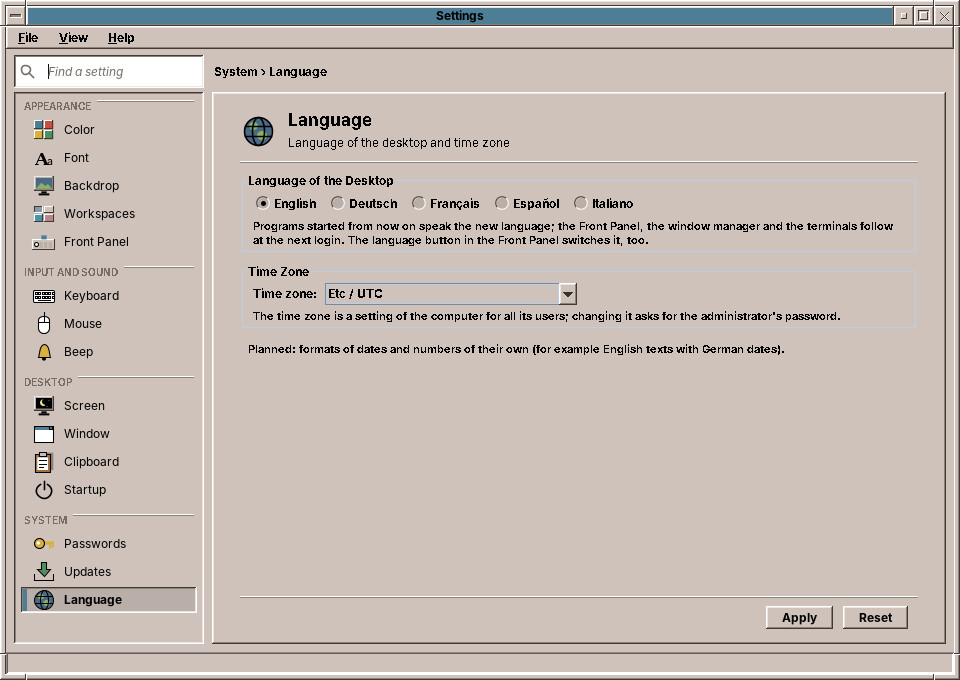
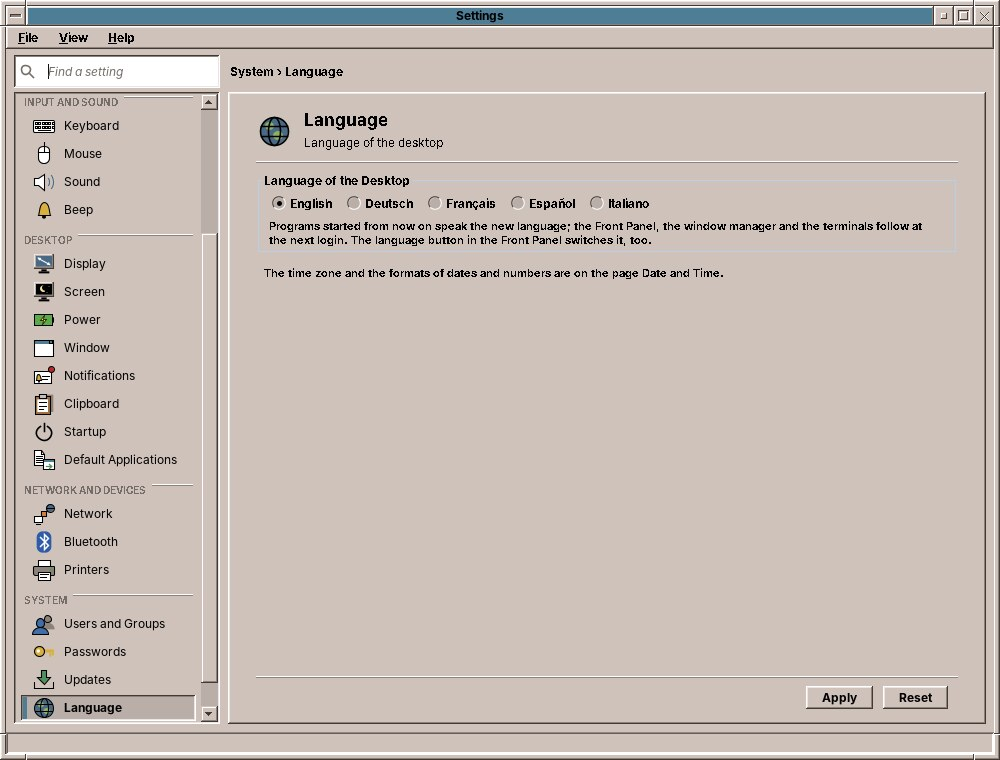
feat: Default Applications and Date and Time in Settings
User's Handbook: ch 38 gets Date and Time (network time, the clock by hand,
time zone, formats apart from the language) and loses the time zone on the
Language page; ch 40 gets "Which program opens what" (Default Applications);
ch 25, 30, 56 and appendix E follow, ROADMAP items 5 and 6 are crossed out.

Image: /etc/xdg/mimeapps.list names amadeOS's program for mail links, folders,
text, documents, music, videos, calendar files and vCards; locale-gen builds
the locales of the regions Settings offers for formats.

Claude-Session: https://claude.ai/code/session_017Pd6Nbiw9wGbTfiJeZp9VM

Changed region(s): [[0.0, 0.0, 1.0, 1.0], [0.9688, 0.1235, 1.0, 0.1544]]

diff --git a/docs/handbook/chapters/38-passwords-updates-language.md b/docs/handbook/chapters/38-passwords-updates-language.md
@@ -1,6 +1,6 @@
 # 38. Network, Devices and System
 
-Two groups of Settings reach below the desktop. *Network and Devices* connects the computer: the wired network and the WLAN with the proxy through which programs reach the internet, the Bluetooth devices and the printers. *System* has the accounts of the computer (chapter 53), the keyring with your passwords, the updates of the system, and the language and time zone.
+Two groups of Settings reach below the desktop. *Network and Devices* connects the computer: the wired network and the WLAN with the proxy through which programs reach the internet, the Bluetooth devices and the printers. *System* has the accounts of the computer (chapter 53), the keyring with your passwords, the updates of the system, the language, and the date and time.
 
 ## Network
 
@@ -126,10 +126,29 @@ Below, the page shows when the package lists were last checked and how many upda
 
 **Language of the desktop** is the language of the menus and windows: English, Deutsch, Français, Español or Italiano. It is the same choice as the language button of the Front Panel and the login screen (chapter 25). Programs started after **Apply** speak the new language; the Front Panel, the window manager and the terminals follow at the next login.
 
-**Time zone** sets the time zone of the computer's clock. The time zone holds for all users of the computer, so **Apply** asks for the administrator's password.
+The time zone and the formats of dates and numbers have their own page, *Date and Time*.
 
-!!! planned "Planned: formats of their own"
-    Dates, times and numbers follow the language of the desktop. Choosing their format separately, for example English texts with German dates, is planned.
+## Date and Time
+
+![The Date and Time page](images/38/settings-datetime.jpg)
+
+At the top, the page shows the date and the time as the clock of the computer has them, second by second.
+
+**Set the clock automatically from the internet (network time)** is on from the start: the time service `systemd-timesyncd` asks a time server and keeps the clock right to a fraction of a second. The line below says whether it has reached a server yet. A computer that is never online, or a clock you want wrong on purpose, needs the switch off; then **Date** and **Time** below become editable, and **Apply** sets the clock to what they show.
+
+**Time zone** sets the time zone of the computer's clock, for example *Europe / Berlin*. The changes between summer and winter time follow by themselves. The login screen offers the time zone as well (chapter 20).
+
+The clock and the time zone hold for all users of the computer, so **Apply** asks for the administrator's password (once for a few minutes, however many of the three you change).
+
+**Formats of** chooses how dates, times, numbers and money are written, independently of the language: English menus with German dates, for example, or the Swiss way of writing numbers in a German-speaking desktop. *Same as the language* is the start: the formats of the language of the desktop. Below the list, the page shows what the choice means: the short and the long date, the time, a number, a sum of money, the first day of the week, the measures and the paper size. The formats are your own setting; another user of the computer keeps theirs. Programs started after **Apply** use them; the Front Panel and the terminals follow at the next login.
+
+| Region | Date | Time | Number | Week starts |
+|---|---|---|---|---|
+| English (United States) | 10/31/26 | 11:39 PM | 1,234,567.89 | Sunday |
+| English (United Kingdom) | 31/10/2026 | 23:39 | 1,234,567.89 | Monday |
+| Deutsch (Deutschland) | 31.10.26 | 23:39 | 1.234.567,89 | Monday |
+| Deutsch (Schweiz) | 31.10.26 | 23:39 | 1’234’567.89 | Monday |
+| Français (France) | 31/10/2026 | 23:39 | 1 234 567,89 | Monday |
 
 ??? hood "Under the hood"
-    The *Connections* tab asks NetworkManager with `nmcli` (`device status`, `device wifi list`, `device show`) and changes connections with `nmcli device connect` and `nmcli device wifi connect`, which members of the group `netdev` may do without a password. The Bluetooth page speaks with the Bluetooth service `bluetoothd` (BlueZ) over the system bus, and answers the pairing questions as its agent; the user needs to be in the group `bluetooth`. The Printers page speaks IPP to CUPS like the Print Manager, finds printers with `lpinfo`, adds them with `lpadmin -m everywhere` (members of the group `lpadmin` may) and saves the defaults with `lpadmin -o`. The Proxy tab writes `~/.config/amadeos/proxy.conf`; the password is in the keyring under `service amadeos account proxy`. The amade applications follow the file at once. At login the session turns it into the variables `http_proxy`, `https_proxy` and `no_proxy` (`/usr/libexec/amadeos-proxy-env`), and programs started from the desktop get them as they are at that moment. For apt, `/usr/libexec/amadeos-packages proxy` writes `/etc/apt/apt.conf.d/80amadeos-proxy`, which only root can read. The Passwords page talks to the keyring over the freedesktop.org Secret Service on the session bus; locking and unlocking use GNOME Keyring's own interface for its master password. The Updates page reads the same state as the updates cell and writes the automatic setting through `/usr/libexec/amadeos-packages` and `pkexec`. The language is written to `~/.config/amadeos/locale.conf`; the time zone is set with `timedatectl set-timezone`, which polkit allows to administrators.
+    The *Connections* tab asks NetworkManager with `nmcli` (`device status`, `device wifi list`, `device show`) and changes connections with `nmcli device connect` and `nmcli device wifi connect`, which members of the group `netdev` may do without a password. The Bluetooth page speaks with the Bluetooth service `bluetoothd` (BlueZ) over the system bus, and answers the pairing questions as its agent; the user needs to be in the group `bluetooth`. The Printers page speaks IPP to CUPS like the Print Manager, finds printers with `lpinfo`, adds them with `lpadmin -m everywhere` (members of the group `lpadmin` may) and saves the defaults with `lpadmin -o`. The Proxy tab writes `~/.config/amadeos/proxy.conf`; the password is in the keyring under `service amadeos account proxy`. The amade applications follow the file at once. At login the session turns it into the variables `http_proxy`, `https_proxy` and `no_proxy` (`/usr/libexec/amadeos-proxy-env`), and programs started from the desktop get them as they are at that moment. For apt, `/usr/libexec/amadeos-packages proxy` writes `/etc/apt/apt.conf.d/80amadeos-proxy`, which only root can read. The Passwords page talks to the keyring over the freedesktop.org Secret Service on the session bus; locking and unlocking use GNOME Keyring's own interface for its master password. The Updates page reads the same state as the updates cell and writes the automatic setting through `/usr/libexec/amadeos-packages` and `pkexec`. The language is written to `~/.config/amadeos/locale.conf`. The Date and Time page reads the clock with `timedatectl show` and changes it with `timedatectl set-timezone`, `set-ntp` and `set-time`, which polkit allows to administrators. The formats are written to `~/.config/amadeos/formats.conf`, one line such as `de_CH.UTF-8`. The amade applications make it the Java locale for formats; for other programs the session sets `LC_TIME`, `LC_NUMERIC`, `LC_MONETARY`, `LC_PAPER` and `LC_MEASUREMENT` (`LANG` keeps the language), and programs started from the desktop get them as they are at that moment. The image generates the locales of all regions in the list.

diff --git a/docs/handbook/chapters/30-settings.md b/docs/handbook/chapters/30-settings.md
@@ -1,6 +1,6 @@
 # 30. Settings
 
-**Settings** is where you make the desktop your own: its colours, the size of its text, the picture behind the windows, the names of the workspaces and the Front Panel, how the keyboard, the mouse and the windows behave, the speakers and microphones, the sound of the beep, the resolution of the monitors, the screen saver, sleeping and the battery, the notifications, the clipboard and what starts at login, the network, Bluetooth and the printers, and, for the system, the accounts of the computer, the keyring, the updates, the language and the time zone. It grew out of CDE's Style Manager, and it can still look like it (see *The compact view* below).
+**Settings** is where you make the desktop your own: its colours, the size of its text, the picture behind the windows, the names of the workspaces and the Front Panel, how the keyboard, the mouse and the windows behave, the speakers and microphones, the sound of the beep, the resolution of the monitors, the screen saver, sleeping and the battery, the notifications, the clipboard, what starts at login and which program opens which file, the network, Bluetooth and the printers, and, for the system, the accounts of the computer, the keyring, the updates, the language, and the clock with the time zone and the formats of dates and numbers. It grew out of CDE's Style Manager, and it can still look like it (see *The compact view* below).
 
 ## Opening it
 
@@ -32,13 +32,15 @@ On the left, the controls are grouped by what they set. Click one, or move throu
 | | **Notifications** | Where pop-ups appear and for how long, Do not disturb, which programs may show them | 28 |
 | | **Clipboard** | The clipboard history, and copies that outlive their program | 36 |
 | | **Startup** | Programs and desktop services started at login | 35 |
+| | **Default Applications** | The programs that open web links, mail, folders, pictures, PDF files, music, videos and documents | 40 |
 | Network and Devices | **Network** | Wired network, WLAN and the proxy | 38 |
 | | **Bluetooth** | Switching it on, pairing and connecting devices | 38 |
 | | **Printers** | Adding printers, the default printer, paper size and two-sided printing | 38 |
 | System | **Users and Groups** | The accounts of the computer, administrators, permission groups | 53 |
 | | **Passwords** | The login keyring: lock, unlock, change its password | 38 |
 | | **Updates** | Automatic security updates, the updates waiting | 38 |
-| | **Language** | The language of the desktop and the time zone | 38 |
+| | **Language** | The language of the desktop | 38 |
+| | **Date and Time** | The clock, network time, the time zone and the formats of dates and numbers | 38 |
 
 The pages of the *System* group change things for the whole computer or your keyring; some of them ask for the administrator's password on **Apply**. The pages *Sound*, *Bluetooth*, *Printers* and *Users and Groups* have no *Apply*: what you do there happens at once, as on the network's *Connections* tab.
 
@@ -81,4 +83,4 @@ In that window, **OK** saves, applies and closes; **Apply** saves and applies an
     CDE's Style Manager, `dtstyle`, was a row of buttons, each opening a small window. That worked for a handful of controls; amadeOS has more to set, so the sidebar groups them and a search finds them. The compact view keeps the CDE row for those who prefer it.
 
 ??? hood "Under the hood"
-    Settings writes small text files to `~/.config/amadeos/`, one per control: `theme.conf` and `icon_theme.conf` (Color), `font.conf` (Font), `wallpaper.conf` (Backdrop), `input.conf` (Keyboard, Mouse and Beep), `display.conf` (Display), `screen.conf` (Screen), `power.conf` (Power), `window.conf` (Window), `notifications.conf` (Notifications), `clipboard.conf` (Clipboard), `workspaces.conf` (Workspaces), `panel.conf` (Front Panel), `startup.conf` (Startup) and `locale.conf` (Language); the programs started at login are in `~/.config/autostart/`; its own view is kept in `settings.conf`. The desktop and the amadeOS applications watch these files, so a change reaches them at once. Chapter 56 lists all settings files.
+    Settings writes small text files to `~/.config/amadeos/`, one per control: `theme.conf` and `icon_theme.conf` (Color), `font.conf` (Font), `wallpaper.conf` (Backdrop), `input.conf` (Keyboard, Mouse and Beep), `display.conf` (Display), `screen.conf` (Screen), `power.conf` (Power), `window.conf` (Window), `notifications.conf` (Notifications), `clipboard.conf` (Clipboard), `workspaces.conf` (Workspaces), `panel.conf` (Front Panel), `startup.conf` (Startup), `locale.conf` (Language) and `formats.conf` (Date and Time); the default applications are in `~/.config/mimeapps.list`; the programs started at login are in `~/.config/autostart/`; its own view is kept in `settings.conf`. The desktop and the amadeOS applications watch these files, so a change reaches them at once. Chapter 56 lists all settings files.

diff --git a/README.md b/README.md
@@ -87,7 +87,7 @@ settings). This repository holds the live image: its package list and configurat
 | **Front panel** | A CDE-style dock with clock, calendar, workspace switcher and drawers that list installed applications from their `.desktop` files, among them a Games drawer with the amade games (Mines, Solitaire, Paddle, ..., Town). The Help drawer opens the amadeOS User's Handbook in Firefox. |
 | **Logs** | One log per application in `~/.cache/amadeos/logs` (`firefox-esr.log`, `amade-files.log`, ...), written by the panel when it starts a program, next to `session.log` and `wm.log` from `amadeos-session`. *Session Diagnostics & Logs* in the Tools drawer (the program `amadeos-logviewer`) shows one of them at a time, chosen from a list, with the display manager's logs from `/var/log` and the system journal of this boot (the live user is in `systemd-journal`); *Follow* reloads every two seconds. |
 | **Language** | English, Deutsch, Français, Español, Italiano. Chosen in the login greeter (*Language*, preselected with the user's last choice) for the whole session, or with the language button under the lock in the front panel. Both write `~/.config/amadeos/locale.conf`; applications built on amade-commons start in that language, the panel and terminals follow at the next login (`LANG`). An application's own *Settings* can override it. |
-| **Settings** (`settings`, formerly the Style Manager) | The controls of CDE's dtstyle in one window with a sidebar and a search, or as CDE's compact row (View > Compact). Color (palette and icon theme), Font, Backdrop, Workspaces (names), Front Panel (clock, status cells), Keyboard, Mouse, Beep, Screen, Window, Clipboard, Startup (programs in `~/.config/autostart`, optional desktop services), Passwords (login keyring), Updates and Language (with the time zone). |
+| **Settings** (`settings`, formerly the Style Manager) | The controls of CDE's dtstyle in one window with a sidebar and a search, or as CDE's compact row (View > Compact). Color (palette and icon theme), Font, Backdrop, Workspaces (names), Front Panel (clock, status cells), Keyboard, Mouse, Beep, Screen, Window, Clipboard, Startup (programs in `~/.config/autostart`, optional desktop services), Passwords (login keyring), Updates, Language, Date and Time (time zone, network time, the clock by hand, formats of dates and numbers apart from the language in `~/.config/amadeos/formats.conf`) and Default Applications (`~/.config/mimeapps.list`). |
 | **Icons** | The NsCDE icon theme is the default (package `nscde-icon-theme`, built by `scripts/package-nscde-icons.sh`, included in the image automatically). Any other installed Freedesktop icon theme can be chosen in the Settings. |
 | **Backdrops** | The original CDE pattern backdrops (Pebbles, Concave, BrickWall, Toronto, ...) come as the separate package `amadeos-backdrops-cde` (built by `scripts/package-cde-backdrops.sh`, installed to `/usr/share/amadeos/backdrops/cde`) and take their shades from the chosen backdrop color like in dtstyle. Own `.pm`/`.bm` files (XPM/XBM) are found in `~/.dt/backdrops` and `~/.config/amadeos/backdrops`, pictures (PNG/JPEG) as well. |
 | **Input settings** (`input`) | Keyboard repeat and click, mouse handedness, double-click time and acceleration, and the bell; stored in `~/.config/amadeos/input.conf` and applied with `xset`, `xmodmap` and `xrdb` at login (`/etc/amadeos/autostart.d/10-amadeos-input`) and on Apply. |

diff --git a/docs/handbook/chapters/40-applications.md b/docs/handbook/chapters/40-applications.md
@@ -38,10 +38,36 @@ Every amade application has its source code in a repository of its own on GitHub
 
 - Click the icon or open the drawer of its slot in the **Front Panel** (chapter 22).
 - Choose it in the **Application Manager**: click the icon of the **Tools** slot.
-- Double-click a file in the **File Manager**: it opens in the program made for it, a `.txt` in the Text Editor, an `.odt` in WritePad, a photo in the Image Viewer, a `.pdf` in the PDF Viewer, an `.epub` in Books, an `.ics` in the Calendar.
+- Double-click a file in the **File Manager**: it opens in the program made for it, a `.txt` in the Text Editor, an `.odt` in WritePad, a photo in the Image Viewer, a `.pdf` in the PDF Viewer, an `.epub` in Books, an `.ics` in the Calendar. Which program that is, you choose in Settings (below).
 - Type its command in a terminal, such as `amade-pad letter.txt`. Each section below names the command.
 
 While a program starts, the pointer shows the busy cursor until its window appears.
+
+## Which program opens what
+
+![The Default Applications page in Settings](images/40/settings-applications.jpg)
+
+The page **Default Applications** in Settings (group *Desktop*) chooses the program that opens a kind of file or link: web links, mail addresses (`mailto:` links in a web page), folders, text files, documents, pictures, PDF files, e-books and comics, music, videos, calendar files and contacts. The File Manager, the links in the Mailer and in the other programs, and everything started with `xdg-open` follow it.
+
+Each list offers only the installed programs that say they can open that kind of file; a program installed later appears in it by itself. *(amadeOS default)* marks the program amadeOS chose. To read `.docx` files in LibreOffice Writer instead of WritePad, for example, choose *LibreOffice Writer* next to *Documents* and click **Apply**. **Use amadeOS Defaults** selects amadeOS's choice in every list again.
+
+| Kind | amadeOS default | Other programs in the image |
+|---|---|---|
+| Web browser | Firefox ESR | |
+| Mail | Mailer | |
+| Folders | File Manager | |
+| Text files | Text Editor | WritePad |
+| Documents | WritePad | LibreOffice Writer |
+| Pictures | Image Viewer | Image Editor, Imagescan |
+| PDF files | PDF Viewer | |
+| E-books and comics | Books | |
+| Music | Audio | |
+| Videos | Video | |
+| Calendar files | Calendar | |
+| Contacts | Contacts | |
+
+??? hood "Under the hood"
+    The page follows the freedesktop.org *MIME Applications* specification. Your choices go to `~/.config/mimeapps.list`, under `[Default Applications]`, one line per type (`application/pdf=amade-pdfviewer.desktop;`); amadeOS's choices are in `/etc/xdg/mimeapps.list`. The first file that names an installed program wins. Choosing amadeOS's default again removes your line, so that a later change of the default in an update reaches you. Lines that other programs write to the same file, such as Firefox's, stay as they are. The programs a list offers are the desktop entries in `/usr/share/applications` whose `MimeType=` names the kind.
 
 ## The Application Manager
 

diff --git a/ROADMAP.md b/ROADMAP.md
@@ -69,8 +69,8 @@ Gap analysis of 2026-10-31: what a typical desktop has and amadeOS does not yet,
 2. ~~Archives: open and create zip and tar files.~~ Built 2026-10-31 in the File Manager (Extract Here, Extract To…, Compress…; also reads 7z).
 3. ~~Power: Suspend and Hibernate in the EXIT dialog, an action for the closed lid, a Settings page *Power* (screen off after, suspend after, on battery).~~ Built 2026-10-31 (amadeos-system: EXIT dialog, Settings > Power, lid and power button through logind; test on a real laptop open).
 4. ~~Notifications: a daemon for `org.freedesktop.Notifications`, so Firefox, updates, Mailer and Calendar reminders can show pop-ups.~~ Built 2026-10-31 (pop-ups, history, bell, Do not disturb; see the timeline). Calendar, Mailer, Backup, TV and Webcam send through it (calendar #17, mail #15, backup #6, tv #10, webcam #2).
-5. Default applications: a Settings page for the program that opens web links, mail, PDFs, pictures, music and videos (`xdg-mime`).
-6. Date and time: date and number formats (marked *Planned* on the Language page), network time on or off, setting the time by hand.
+5. ~~Default applications: a Settings page for the program that opens web links, mail, PDFs, pictures, music and videos (`xdg-mime`).~~ Built 2026-10-31 (Settings > Default Applications, `~/.config/mimeapps.list`).
+6. ~~Date and time: date and number formats (marked *Planned* on the Language page), network time on or off, setting the time by hand.~~ Built 2026-10-31 (Settings > Date and Time with the time zone, network time, the clock by hand and formats of a region of their own).
 7. Task manager / system monitor: processes, CPU and memory graphs, ending a program that hangs (System Information shows only a report).
 8. Terminal: an own terminal or the decision to keep xterm (see M13).
 9. Disk tool: formatting a USB stick, partitions, disk health (SMART).

diff --git a/docs/handbook/chapters/56-settings-reference.md b/docs/handbook/chapters/56-settings-reference.md
@@ -32,6 +32,7 @@ Your settings are in your home folder, in folders whose names start with a dot a
 | `settings.conf` | Settings: the sidebar or the compact view | 30 |
 | `proxy.conf` | Settings: Network (the password is in the keyring) | 38 |
 | `locale.conf` | The greeter and the language button | 25 |
+| `formats.conf` | Settings: Date and Time (formats apart from the language) | 38 |
 | `session.conf` | You, by hand | 55 |
 | `autostart.d/` | You, by hand | 55 |
 
@@ -40,6 +41,8 @@ Your settings are in your home folder, in folders whose names start with a dot a
 The amade applications keep their settings in a folder of their own below `~/.config/amadeos/` (the Mailer in `~/.config/amadeos/mail`, for example) and their data below `~/.local/share/amadeos/` (the scores of the games in `~/.local/share/amadeos/games/<game>/`). Passwords, such as those of mail accounts, are not in these files but in your login keyring (chapter 58).
 
 The programs that start at login are desktop entries in `~/.config/autostart/` (Settings: Startup, chapter 35); your own login scripts are in `~/.config/amadeos/autostart.d/` (chapter 55).
+
+The default applications (Settings: Default Applications, chapter 40) are in `~/.config/mimeapps.list`, as the freedesktop.org standard has it; amadeOS's own defaults are in `/etc/xdg/mimeapps.list`.
 
 Firefox keeps its profile in `~/.mozilla/firefox/`, LibreOffice in `~/.config/libreoffice/`.
 

diff --git a/docs/handbook/chapters/25-language.md b/docs/handbook/chapters/25-language.md
@@ -8,7 +8,7 @@ amadeOS speaks five languages: **English**, **Deutsch**, **Français**, **Españ
 
 **In the Front Panel.** The language button under the padlock, in the middle of the panel, shows the current language as a code such as *EN* or *DE*. Click it and choose another language from the menu. Programs you start from then on use the new language; the Front Panel itself and the terminals follow at the next login.
 
-**In Settings.** The *Language* page (chapter 38) offers the same choice, next to the time zone of the computer.
+**In Settings.** The *Language* page (chapter 38) offers the same choice. The time zone and the formats of dates and numbers, which can differ from the language, are on the *Date and Time* page next to it.
 
 **In a single application.** Many amadeOS applications have a language setting of their own in their *Settings* or *Options*. It overrides the desktop language for that application only.
 

diff --git a/docs/handbook/chapters/e-what-is-planned.md b/docs/handbook/chapters/e-what-is-planned.md
@@ -23,7 +23,6 @@ The *Planned* boxes of this book, collected in one place, sorted by where they b
 | Maximizing on one monitor, and the Front Panel on the primary monitor, with several monitors | 39 |
 | More or fewer than four workspaces | 37 |
 | The Front Panel at the top or a side of the screen | 37 |
-| Formats of dates and numbers apart from the language | 38 |
 | Automatic proxy configuration (PAC, WPAD) | 38 |
 | Pictures of the users, automatic login, rules for good passwords, giving a folder to a group in Files | 53 |
 | Fixed addresses, VPNs and a hotspot on the Network page of Settings | 38, 54 |
